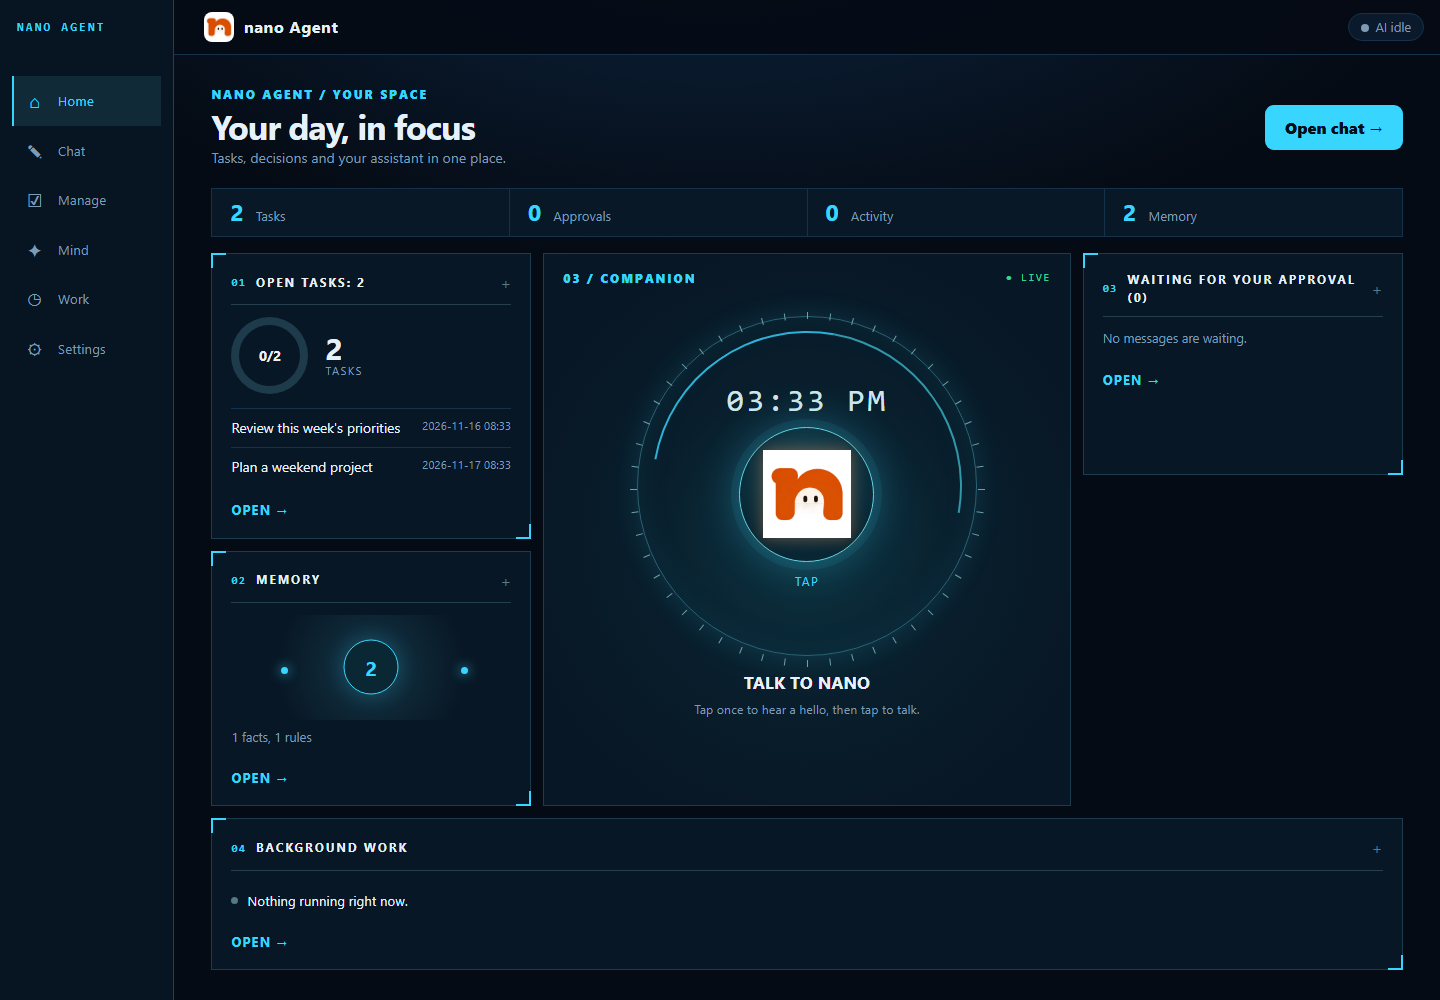
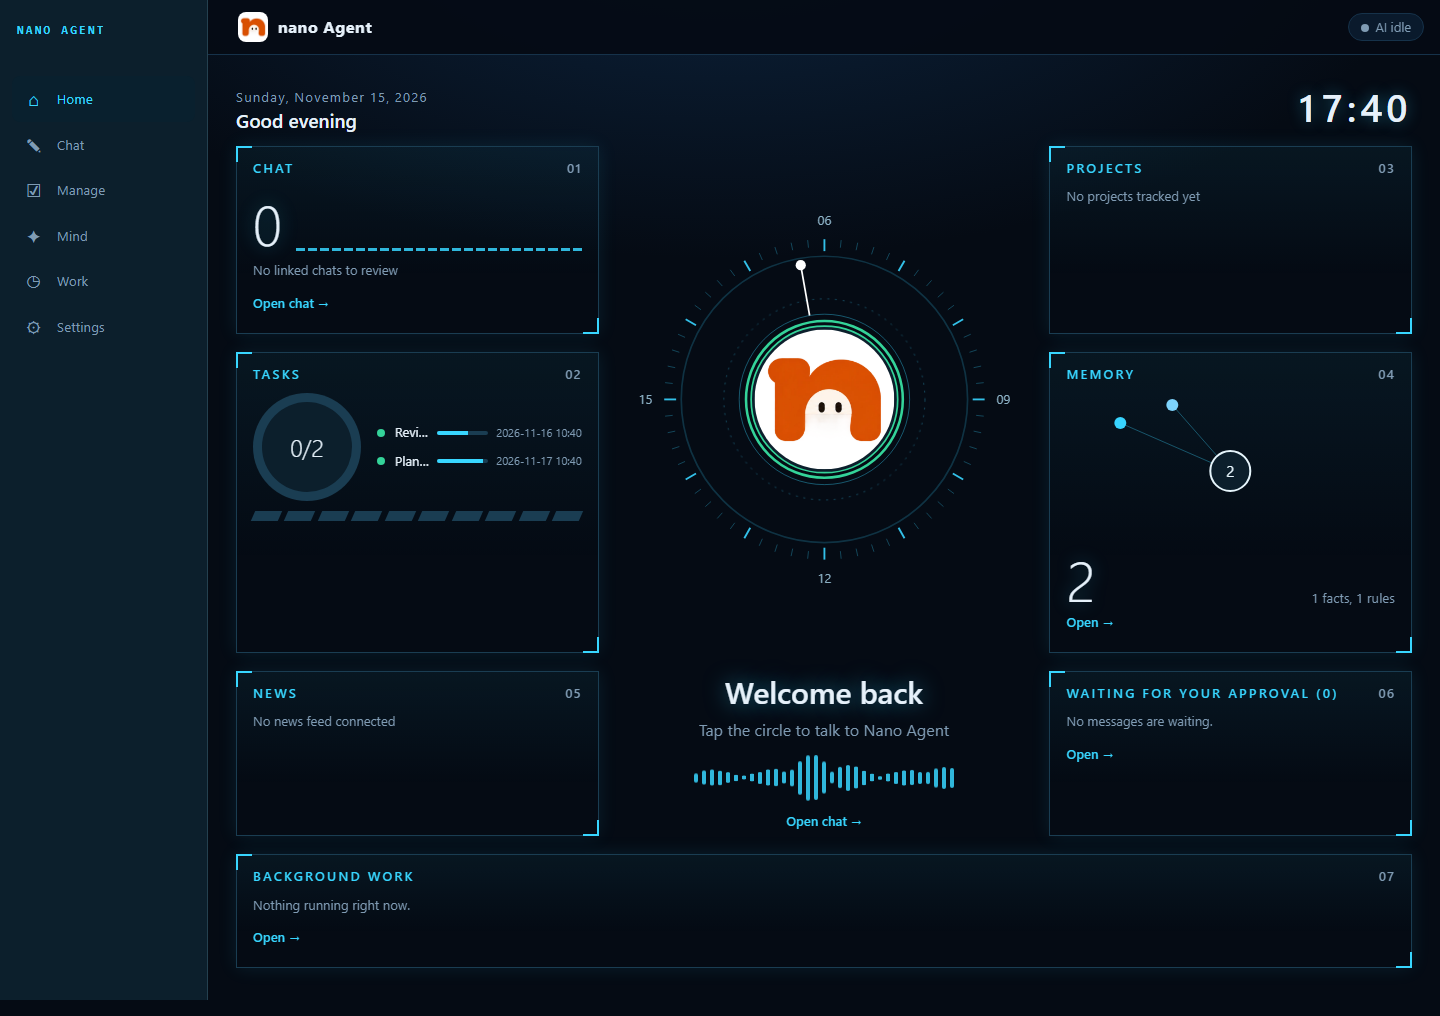
Match Spark dashboard layout with Nano Agent branding

diff --git a/src/nanoagent/gateway/static/console.js b/src/nanoagent/gateway/static/console.js
@@ -97,71 +97,118 @@ async function orbTap() {
   if (!openerSpoken) { openerSpoken = true; const o = await api("/companion/opener"); $("#said").textContent = o.text; await speak(o.text); return; }
   listen();
 }
+function sv(tag, props = {}, ...kids) {
+  const e = document.createElementNS("http://www.w3.org/2000/svg", tag);
+  for (const [k, v] of Object.entries(props)) e.setAttribute(k, String(v));
+  for (const c of kids.flat()) if (c) e.append(c);
+  return e;
+}
+function dialPoint(r, deg) { const a = deg * Math.PI / 180; return [200 + r * Math.sin(a), 200 - r * Math.cos(a)]; }
+function nanoDial(tasks = []) {
+  const svg = sv("svg", { class: "jv-dial", viewBox: "-34 -34 468 468", "aria-hidden": "true" });
+  for (let i = 0; i < 60; i++) {
+    const big = i % 5 === 0, [x1, y1] = dialPoint(big ? 174 : 179, i * 6), [x2, y2] = dialPoint(188, i * 6);
+    svg.append(sv("line", { x1, y1, x2, y2, stroke: "#38d4ff", "stroke-opacity": big ? .9 : .35, "stroke-width": big ? 2.2 : 1 }));
+  }
+  svg.append(sv("circle", { cx: 200, cy: 200, r: 168, fill: "none", stroke: "#38d4ff", "stroke-opacity": .2, "stroke-width": 2 }),
+    sv("circle", { class: "jv-spin", cx: 200, cy: 200, r: 118, fill: "none", stroke: "#38d4ff", "stroke-opacity": .4, "stroke-dasharray": "2 7" }),
+    sv("circle", { cx: 200, cy: 200, r: 100, fill: "none", stroke: "#38d4ff", "stroke-opacity": .45 }));
+  for (const [label, deg] of [["06", 0], ["09", 90], ["12", 180], ["15", 270]]) {
+    const [x, y] = dialPoint(210, deg), txt = sv("text", { x, y: y + 5, fill: "#8bb0c4", "font-size": 15, "text-anchor": "middle" });
+    txt.textContent = label; svg.append(txt);
+  }
+  const now = new Date(), hour = now.getHours() + now.getMinutes() / 60;
+  if (hour >= 6 && hour <= 18) {
+    const deg = (hour - 6) * 30, [x1, y1] = dialPoint(100, deg), [x2, y2] = dialPoint(160, deg);
+    svg.append(sv("line", { x1, y1, x2, y2, stroke: "#fff", "stroke-width": 2 }), sv("circle", { cx: x2, cy: y2, r: 6, fill: "#fff" }));
+  }
+  const today = now.getFullYear() + "-" + String(now.getMonth() + 1).padStart(2, "0") + "-" + String(now.getDate()).padStart(2, "0");
+  for (const task of tasks.filter(x => !x.done && x.due && x.due.startsWith(today)).slice(0, 4)) {
+    const m = /\b(\d{1,2}):(\d{2})\b/.exec(task.due);
+    if (!m) continue;
+    const dueHour = Number(m[1]) + Number(m[2]) / 60;
+    if (dueHour < 6 || dueHour > 18) continue;
+    const [x, y] = dialPoint(150, (dueHour - 6) * 30);
+    svg.append(sv("circle", { cx: x, cy: y, r: 9, fill: "#fbbf24" }));
+  }
+  svg.append(sv("circle", { cx: 200, cy: 200, r: 92, fill: "none", stroke: "#34d399", "stroke-width": 3 }),
+    sv("circle", { cx: 200, cy: 200, r: 86, fill: "#0c1f2c", stroke: "#34d399", "stroke-width": 2 }));
+  const clip = sv("clipPath", { id: "nano-dial-clip" }, sv("circle", { cx: 200, cy: 200, r: 82 }));
+  svg.append(sv("defs", {}, clip), sv("image", { href: "/static/logo-icon.png", x: 118, y: 118, width: 164, height: 164, "clip-path": "url(#nano-dial-clip)", preserveAspectRatio: "xMidYMid meet" }));
+  return svg;
+}
+function jvPanel(area, title, number, ...kids) {
+  return h("section", { class: "jv-panel", style: `grid-area:${area}` },
+    h("h3", null, h("span", { text: title }), h("i", { text: number })), ...kids);
+}
+function jvEmpty(message) { return h("p", { class: "jv-note", text: message }); }
+function jvGo(label, target, section) { return h("button", { class: "jv-link", onclick: () => { if (section) sub[target] = section; go(target); }, text: label }); }
+function jvMemoryGraph(count) {
+  const svg = sv("svg", { class: "jv-memory-graph", viewBox: "0 0 300 150", "aria-hidden": "true" });
+  const points = [[40, 30], [92, 12], [150, 28], [232, 40], [262, 98], [200, 128], [110, 132], [34, 96], [200, 74]];
+  points.slice(0, Math.min(count, points.length)).forEach(([x, y], i) => {
+    svg.append(sv("line", { x1: 150, y1: 78, x2: x, y2: y, stroke: "#38d4ff", "stroke-opacity": .35 }),
+      sv("circle", { cx: x, cy: y, r: 6, fill: ["#38d4ff", "#7dd3fc", "#fbbf24", "#34d399"][i % 4] }));
+  });
+  const center = sv("text", { x: 150, y: 84, "text-anchor": "middle", fill: "#e6f5fc", "font-size": 15 }); center.textContent = String(count);
+  svg.append(sv("circle", { cx: 150, cy: 78, r: 20, fill: "#0c1f2c", stroke: "#e6f5fc", "stroke-width": 2 }), center);
+  return svg;
+}
 async function vHome() {
   const v = clear();
-  v.append(
-    h("section", { class: "home-intro" },
-      h("div", null, h("div", { class: "home-kicker", text: t("home_kicker") }),
-        h("h1", { text: t("home_title") }), h("p", { text: t("home_subtitle") })),
-      h("button", { class: "home-chat-button", onclick: () => go("chat"), text: t("home_chat") })),
-    h("div", { id: "home-metrics", class: "home-metrics" }),
-    h("div", { class: "home-grid" },
-      h("div", { id: "home-left", class: "home-stack" }),
-      h("section", { class: "home-focus" },
-        h("div", { class: "home-focus-top" }, h("span", { class: "home-kicker", text: "03 / COMPANION" }), h("span", { class: "home-live", text: "● LIVE" })),
-        h("div", { class: "home-dial" },
-          h("div", { class: "home-dial-ticks" }, ...Array.from({ length: 48 }, (_, i) => h("i", { style: `--tick:${i}` }))),
-          h("div", { class: "home-dial-core" },
-            h("div", { id: "home-clock", class: "home-clock" }),
-            h("button", { id: "orb", class: "orb", "data-state": "idle", onclick: orbTap, "aria-label": t("orb_tap") }, h("img", { src: "/static/logo-icon.png", alt: "" })),
-            h("div", { class: "home-dial-action", text: t("orb_tap") }))),
-        h("div", { class: "home-welcome", text: t("home_talk") }),
-        h("div", { id: "heard", class: "home-heard" }),
-        h("div", { id: "said", class: "home-said" }),
-        h("p", { class: "dim", text: t("orb_hint") })),
-      h("div", { id: "home-right", class: "home-stack" }),
-      h("div", { id: "home-activity", class: "home-activity" })));
+  const date = new Date(), hour = date.getHours();
+  const greeting = lang === "th" ? (hour < 11 ? "สวัสดีตอนเช้า" : hour < 17 ? "สวัสดีตอนบ่าย" : "สวัสดีตอนเย็น")
+    : (hour < 11 ? "Good morning" : hour < 17 ? "Good afternoon" : "Good evening");
+  v.append(h("div", { class: "jv-head" },
+    h("div", null, h("small", { text: date.toLocaleDateString(lang === "th" ? "th-TH" : undefined, { weekday: "long", day: "numeric", month: "long", year: "numeric" }) }),
+      h("strong", { text: greeting })), h("div", { id: "home-clock", class: "jv-clock" })),
+    h("div", { class: "jv-grid" },
+      h("div", { id: "home-chat-panel", class: "jv-slot", style: "grid-area:chat" }),
+      h("div", { id: "home-task-panel", class: "jv-slot", style: "grid-area:task" }),
+      h("div", { id: "home-news-panel", class: "jv-slot", style: "grid-area:news" }),
+      h("div", { class: "jv-core", style: "grid-area:core" }, h("button", { id: "orb", class: "jv-orb", "data-state": "idle", onclick: orbTap, "aria-label": t("orb_tap") }, nanoDial())),
+      h("div", { class: "jv-welcome", style: "grid-area:wel" }, h("h2", { text: lang === "th" ? "ยินดีต้อนรับกลับมา" : "Welcome back" }),
+        h("p", { id: "home-welcome-note", text: lang === "th" ? "แตะวงกลมเพื่อคุยกับ Nano Agent" : "Tap the circle to talk to Nano Agent" }),
+        h("div", { class: "jv-wave", "aria-hidden": "true" }, ...Array.from({ length: 33 }, (_, i) => h("i", { style: `--i:${i};--h:${Math.round(10 + 40 * Math.abs(Math.sin(i * .55)) * (1 - Math.abs(i - 16) / 22))}px` }))),
+        h("div", { id: "heard", class: "jv-heard" }), h("div", { id: "said", class: "jv-said" }), jvGo(t("home_chat"), "chat")),
+      h("div", { id: "home-project-panel", class: "jv-slot", style: "grid-area:proj" }),
+      h("div", { id: "home-memory-panel", class: "jv-slot", style: "grid-area:mem" }),
+      h("div", { id: "home-approval-panel", class: "jv-slot", style: "grid-area:appr" }),
+      h("div", { id: "home-activity-panel", class: "jv-slot", style: "grid-area:bg" })));
   refreshHome();
 }
 async function refreshHome() {
   if (tab !== "home") return;
   const [st, dr, tk, ac] = await Promise.all([api("/state"), api("/drafts"), api("/tasks"), api("/activity")]);
-  const left = $("#home-left"), right = $("#home-right"), metrics = $("#home-metrics"), activity = $("#home-activity");
-  if (!left || !right || !metrics || !activity) return;
+  if (!$("#home-chat-panel")) return;
+  $("#orb").replaceChildren(nanoDial(tk.tasks));
   const factCount = (st.memory.fact || 0) + (st.memory.rule || 0);
-  const metric = (value, label) => h("div", { class: "home-metric" }, h("strong", { text: String(value) }), h("span", { text: label }));
-  metrics.replaceChildren(metric(st.open_tasks, t("sub_tasks")), metric(dr.drafts.length, t("sub_drafts")),
-    metric(ac.running.length, t("sub_activity")), metric(factCount, t("memory_title")));
-  $("#home-clock").textContent = new Date().toLocaleTimeString(lang === "th" ? "th-TH" : undefined, { hour: "2-digit", minute: "2-digit" });
-  left.replaceChildren(); right.replaceChildren();
-  const show = new Set((ME.prefs && ME.prefs["ui.panels"]) || ["work", "tasks", "memory", "drafts", "notifications", "system"]);
-  let cardIndex = 0;
-  const card = (title, ...kids) => h("section", { class: "home-card" },
-    h("div", { class: "home-card-head" }, h("span", { class: "home-card-index", text: String(++cardIndex).padStart(2, "0") }), h("h2", { text: title }), h("span", { class: "home-card-cross", text: "+" })), ...kids);
+  $("#home-clock").textContent = new Date().toLocaleTimeString(lang === "th" ? "th-TH" : undefined, { hour: "2-digit", minute: "2-digit", hour12: false });
   const openTasks = tk.tasks.filter(x => !x.done);
   const totalTasks = tk.tasks.length;
-  const taskPct = totalTasks ? Math.round((totalTasks - openTasks.length) / totalTasks * 100) : 0;
-  if (show.has("tasks")) left.append(card(t("tasks_open", { n: st.open_tasks }),
-    h("div", { class: "home-task-summary" }, h("div", { class: "home-task-ring", style: `--done:${taskPct}%` }, h("strong", { text: `${totalTasks - openTasks.length}/${totalTasks}` })),
-      h("div", null, h("strong", { text: String(st.open_tasks) }), h("small", { text: t("sub_tasks") }))),
-    ...openTasks.slice(0, 4).map(x => h("div", { class: "home-list-row" },
-      h("span", { text: x.title }), h("small", { text: x.due || "" }))),
-    h("button", { class: "home-link", onclick: () => go("manage"), text: t("home_review") })));
-  if (show.has("memory")) left.append(card(t("memory_title"),
-    h("div", { class: "home-memory-map" }, h("div", { class: "home-memory-center", text: String(factCount) }),
-      ...Array.from({ length: Math.min(8, factCount) }, (_, i) => h("i", { class: "home-memory-node", style: `--node:${i};--nodes:${Math.min(8, factCount)}` }))),
-    h("p", { class: "dim", text: t("memory_counts", { f: st.memory.fact || 0, r: st.memory.rule || 0 }) }),
-    h("button", { class: "home-link", onclick: () => go("mind"), text: t("home_review") })));
-  if (show.has("drafts")) right.append(card(t("drafts_title", { n: dr.drafts.length }),
-    h("p", { class: "dim", text: dr.drafts.length ? t("drafts_note") : t("drafts_none") }),
-    h("button", { class: "home-link", onclick: () => { sub.manage = "drafts"; go("manage"); }, text: t("home_review") })));
-  if (show.has("work")) activity.replaceChildren(card(t("work_title"),
-    h("div", { class: "home-activity-strip" },
-      ac.running.length ? ac.running.slice(0, 4).map(a => h("div", { class: "home-activity-item" }, h("i", { class: "home-activity-dot" }), h("span", { text: a.title }), h("small", { text: Math.round(a.secs) + "s" })))
-        : h("div", { class: "home-activity-item" }, h("i", { class: "home-activity-dot idle" }), h("span", { text: t("work_idle") }))),
-    h("button", { class: "home-link", onclick: () => go("work"), text: t("home_review") })));
-  if (show.has("notifications") && st.notifications.length) right.append(card(t("notif_title"),
-    ...st.notifications.slice(0, 3).map(n => h("div", { class: "home-list-row" }, h("span", { text: n.text }), h("small", { text: when(n.ts) })))));
+  const rows = items => items.map(([title, detail, pct]) => h("div", { class: "jv-row" }, h("span", { class: "jv-dot" }), h("span", { class: "jv-name", text: title }),
+    h("span", { class: "jv-rowbar" }, h("i", { style: `width:${pct}%` })), h("em", { text: detail })));
+  $("#home-chat-panel").replaceChildren(jvPanel("chat", t("tab_chat"), "01",
+    h("div", { class: "jv-split" }, h("span", { class: "jv-big", text: "0" }), h("div", { class: "jv-bars" }, ...Array.from({ length: 24 }, () => h("b", { style: "height:5%" })))),
+    jvEmpty("No linked chats to review"), jvGo(t("home_chat"), "chat")));
+  const completed = totalTasks - openTasks.length, pct = totalTasks ? completed / totalTasks : 0;
+  $("#home-task-panel").replaceChildren(jvPanel("task", t("sub_tasks"), "02",
+    h("div", { class: "jv-ringrow" },
+      h("div", { class: "jv-ring", style: `--done:${Math.round(pct * 100)}%` }, h("span", { text: `${completed}/${totalTasks}` })),
+      h("div", { class: "jv-task-rows" }, openTasks.length ? rows(openTasks.slice(0, 3).map(x => [x.title, x.due || "", x.priority === 1 ? 30 : x.priority === 2 ? 60 : 90])) : jvEmpty("No urgent tasks"))),
+    h("div", { class: "jv-segments" }, ...Array.from({ length: 10 }, (_, i) => h("i", { class: i < Math.round(pct * 10) ? "on" : "" })))));
+  $("#home-news-panel").replaceChildren(jvPanel("news", "News", "05", jvEmpty("No news feed connected")));
+  $("#home-project-panel").replaceChildren(jvPanel("proj", "Projects", "03", jvEmpty("No projects tracked yet")));
+  $("#home-memory-panel").replaceChildren(jvPanel("mem", t("memory_title"), "04", jvMemoryGraph(factCount),
+    h("div", { class: "jv-pct" }, h("span", { class: "jv-big", text: String(factCount) }), h("small", { text: t("memory_counts", { f: st.memory.fact || 0, r: st.memory.rule || 0 }) })), jvGo(t("home_review"), "mind")));
+  $("#home-approval-panel").replaceChildren(jvPanel("appr", t("drafts_title", { n: dr.drafts.length }), "06",
+    dr.drafts.length ? rows(dr.drafts.slice(0, 3).map(d => [d.channel + " → " + d.target, "Review", 60])) : jvEmpty(t("drafts_none")),
+    jvGo(t("home_review"), "manage", "drafts")));
+  const recent = [...ac.running, ...ac.done.slice(0, 3)];
+  $("#home-activity-panel").replaceChildren(jvPanel("bg", t("work_title"), "07",
+    recent.length ? recent.map(a => h("div", { class: "jv-activity-row" }, h("span", { class: "jv-dot " + (a.status === "running" ? "running" : "") }),
+      h("span", { text: a.title }), h("small", { text: a.status === "running" ? Math.round(a.secs) + "s" : a.status }))) : jvEmpty(t("work_idle")),
+    jvGo(t("home_review"), "work")));
 }
 function draftsPanel(list, after) {
   return panel(t("drafts_title", { n: list.length }), h("p", { class: "dim", text: t("drafts_note") }), ...list.map(d => h("div", { class: "row" },

diff --git a/src/nanoagent/gateway/static/dashboard.css b/src/nanoagent/gateway/static/dashboard.css
@@ -1,0 +1,21 @@
+/* The home screen follows the layout of the owner's Personal Assistant dashboard. */
+main:has(.jv-grid){max-width:none;width:auto;padding:24px 28px 48px}
+.jv-head{display:flex;justify-content:space-between;align-items:flex-end;gap:12px;margin:0 0 12px}.jv-head small{display:block;color:var(--dim);letter-spacing:.08em}.jv-head strong{display:block;font-size:19px;font-weight:600}.jv-clock{font-size:38px;font-weight:500;letter-spacing:.12em;font-variant-numeric:tabular-nums;text-shadow:0 0 16px #38d4ff66}
+.jv-grid{display:grid;gap:14px;grid-template-columns:minmax(0,1fr);grid-template-areas:"core" "wel" "bg" "chat" "task" "proj" "mem" "appr" "news"}
+@media(min-width:1100px){.jv-grid{grid-template-columns:minmax(0,1fr) minmax(380px,1.1fr) minmax(0,1fr);grid-template-areas:"chat core proj" "task core mem" "news wel appr" "bg bg bg";gap:18px 26px}}
+.jv-slot{min-width:0}.jv-panel{height:100%;position:relative;border:1px solid #1a3d52;background:linear-gradient(180deg,#38d4ff0f,#38d4ff00 70%);padding:12px 16px 14px;box-shadow:0 0 18px #38d4ff1a;min-width:0}
+.jv-panel:before,.jv-panel:after{content:"";position:absolute;width:14px;height:14px;pointer-events:none}.jv-panel:before{top:-1px;left:-1px;border-top:2px solid var(--accent);border-left:2px solid var(--accent)}.jv-panel:after{bottom:-1px;right:-1px;border-bottom:2px solid var(--accent);border-right:2px solid var(--accent)}
+.jv-panel h3{display:flex;justify-content:space-between;font-size:12.5px;font-weight:600;letter-spacing:.2em;color:var(--accent);margin:0 0 10px;text-transform:uppercase}.jv-panel h3 i{font-style:normal;color:var(--dim);letter-spacing:.1em}
+.jv-note{color:var(--dim);font-size:13px;margin:8px 0}.jv-link{background:none;border:0;border-radius:0;padding:6px 0;color:var(--accent);font-size:13px;font-weight:600}
+.jv-split{display:flex;align-items:flex-end;gap:14px;margin-bottom:10px}.jv-big{font-size:56px;line-height:1;font-weight:300;font-variant-numeric:tabular-nums;color:var(--txt);text-shadow:0 0 18px #38d4ff66}
+.jv-bars{flex:1;display:flex;align-items:flex-end;gap:3px;height:64px}.jv-bars b{flex:1;background:var(--accent);min-height:3px;opacity:.85}
+.jv-row{display:grid;grid-template-columns:10px minmax(0,1fr) 28% auto;align-items:center;gap:8px;padding:5px 0;font-size:13px}.jv-name{overflow:hidden;text-overflow:ellipsis;white-space:nowrap}.jv-row em{font-style:normal;font-size:11px;color:var(--dim);min-width:34px;text-align:right}.jv-dot{width:8px;height:8px;border-radius:50%;background:var(--ok);display:inline-block;flex:none}.jv-dot.running{box-shadow:0 0 10px var(--ok);animation:pulse 1.2s infinite}.jv-rowbar{height:4px;background:#1a3d52;border-radius:2px;overflow:hidden}.jv-rowbar i{display:block;height:100%;background:var(--accent)}
+.jv-ringrow{display:flex;gap:16px;align-items:center}.jv-ring{width:108px;height:108px;flex:none;border-radius:50%;background:conic-gradient(var(--ok) var(--done),#1a3d52 0);display:grid;place-items:center;position:relative}.jv-ring:before{content:"";position:absolute;inset:9px;border-radius:50%;background:#0c1f2c}.jv-ring span{z-index:1;font-size:24px;font-weight:300}.jv-task-rows{flex:1;min-width:0}.jv-task-rows .jv-row{grid-template-columns:10px minmax(0,1fr) 25% auto}
+.jv-segments{display:flex;gap:6px;margin-top:10px}.jv-segments i{flex:1;height:10px;transform:skewX(-24deg);background:#1a3d52}.jv-segments i.on{background:var(--ok)}
+.jv-core{display:flex;align-items:center;justify-content:center}.jv-orb{display:block;border:0;background:none;padding:0;border-radius:50%;width:100%;max-width:520px}.jv-dial{width:100%;height:auto;display:block}.jv-spin{transform-box:fill-box;transform-origin:center}.jv-orb[data-state=listening] .jv-dial{filter:drop-shadow(0 0 16px #34d39988)}.jv-orb[data-state=thinking] .jv-dial{filter:drop-shadow(0 0 18px #fbbf2488)}.jv-orb[data-state=speaking] .jv-dial{filter:drop-shadow(0 0 18px #60a5fa88)}
+.jv-welcome{text-align:center;align-self:center}.jv-welcome h2{display:block;font-size:30px;font-weight:600;margin:0 0 4px;text-shadow:0 0 22px #38d4ff88}.jv-welcome p{margin:0;color:var(--dim)}.jv-wave{display:flex;align-items:center;justify-content:center;gap:4px;height:56px;margin-top:8px}.jv-wave i{width:4px;border-radius:2px;background:var(--accent);height:var(--h);opacity:.85}.jv-heard,.jv-said{overflow-wrap:anywhere}.jv-heard{color:var(--dim);font-size:.85rem}.jv-said{font-size:.9rem;max-width:38ch;margin:auto}
+.jv-memory-graph{width:100%;height:150px;display:block}.jv-pct{display:flex;justify-content:space-between;align-items:flex-end;margin-top:8px}.jv-pct small{color:var(--dim);text-align:right}.jv-activity-row{display:flex;align-items:center;gap:10px;padding:8px 0;border-top:1px solid #1a3d52}.jv-activity-row span:nth-child(2){flex:1}.jv-activity-row small{color:var(--dim)}
+@media(min-width:1001px){header{margin-left:208px}main{margin-left:208px}nav{width:208px;background:#0c1f2c}nav button{border-left:0;border-radius:8px;padding:10px}nav button.on{background:#09202e;border-left:0}nav:before{top:23px}}
+@media(max-width:1000px){main:has(.jv-grid){padding:16px 16px 96px}.jv-grid{grid-template-columns:1fr 1fr;grid-template-areas:"core core" "wel wel" "bg bg" "chat task" "proj mem" "appr news"}}
+@media(max-width:620px){.jv-grid{grid-template-columns:minmax(0,1fr);grid-template-areas:"core" "wel" "bg" "chat" "task" "proj" "mem" "appr" "news"}.jv-head strong{font-size:17px}.jv-clock{font-size:30px}.jv-orb{max-width:370px}}
+@media(prefers-reduced-motion:no-preference){.jv-spin{animation:jv-spin 60s linear infinite}@keyframes jv-spin{to{transform:rotate(360deg)}}.jv-wave i{animation:jv-wave 1.5s ease-in-out infinite;animation-delay:calc(var(--i)*-.09s)}@keyframes jv-wave{50%{transform:scaleY(.3)}}}

diff --git a/src/nanoagent/gateway/console.py b/src/nanoagent/gateway/console.py
@@ -100,6 +100,6 @@ main:has(.home-grid){max-width:1550px;padding:22px clamp(18px,2.6vw,38px)}
 def page() -> str:
     return f"""<!doctype html><html lang="en" data-accent="cyan" data-density="normal" data-size="m"><head><meta charset="utf-8">
 <meta name="viewport" content="width=device-width,initial-scale=1,viewport-fit=cover"><meta name="robots" content="noindex">
-<title>nano Agent</title><link rel="icon" href="/static/favicon.png"><style>{CSS}</style></head><body>
+<title>nano Agent</title><link rel="icon" href="/static/favicon.png"><style>{CSS}</style><link rel="stylesheet" href="/static/dashboard.css?v={__version__}"></head><body>
 <header><img src="/static/logo-icon.png" alt=""><b>nano Agent</b><span class="sp"></span><span id="pill" class="pill"><i></i><span id="pilltxt"></span></span></header>
 <main id="view"></main><nav id="tabs"></nav><script src="/static/console.js?v={__version__}"></script></body></html>"""

diff --git a/src/nanoagent/gateway/app.py b/src/nanoagent/gateway/app.py
@@ -121,10 +121,11 @@ def create_app() -> FastAPI:
 
     @app.get("/static/{name}")
     async def static(name: str):
-        if name not in ("console.js", "favicon.png", "logo-icon.png"):
+        if name not in ("console.js", "dashboard.css", "favicon.png", "logo-icon.png"):
             raise HTTPException(404)
         data = resources.files("nanoagent").joinpath("gateway", "static", name).read_bytes()
-        return Response(data, media_type="application/javascript" if name.endswith(".js") else "image/png", headers={"Cache-Control": "public, max-age=300"})
+        media_type = "text/css" if name.endswith(".css") else "application/javascript" if name.endswith(".js") else "image/png"
+        return Response(data, media_type=media_type, headers={"Cache-Control": "public, max-age=300"})
 
     @app.get("/api/strings")
     async def strings():

diff --git a/scripts/preview_console.py b/scripts/preview_console.py
@@ -86,7 +86,7 @@ def main() -> int:
                     page.locator("nav button").first.wait_for(timeout=10000)
                     page.screenshot(path=str(args.out / "console-skills.png"), full_page=True)
                     page.locator("nav button").first.click()
-                    page.locator(".home-card").first.wait_for(timeout=10000)
+                    page.locator(".jv-panel").first.wait_for(timeout=10000)
                     page.screenshot(path=str(args.out / "console-home.png"), full_page=True)
                     page.set_viewport_size({"width": 390, "height": 844})
                     page.screenshot(path=str(args.out / "console-mobile.png"), full_page=True)

diff --git a/tests/test_gateway.py b/tests/test_gateway.py
@@ -86,6 +86,7 @@ def test_security_headers_and_static_whitelist(client):
     r = client.get("/console")
     assert r.headers["x-content-type-options"] == "nosniff" and "default-src 'self'" in r.headers["content-security-policy"]
     assert client.get("/static/console.js").status_code == 200
+    assert client.get("/static/dashboard.css").headers["content-type"].startswith("text/css")
     assert client.get("/static/../config.py").status_code in (404, 422)
     assert client.get("/static/secrets.toml").status_code == 404
     assert client.get("/api/me").headers.get("cache-control") == "no-store"
